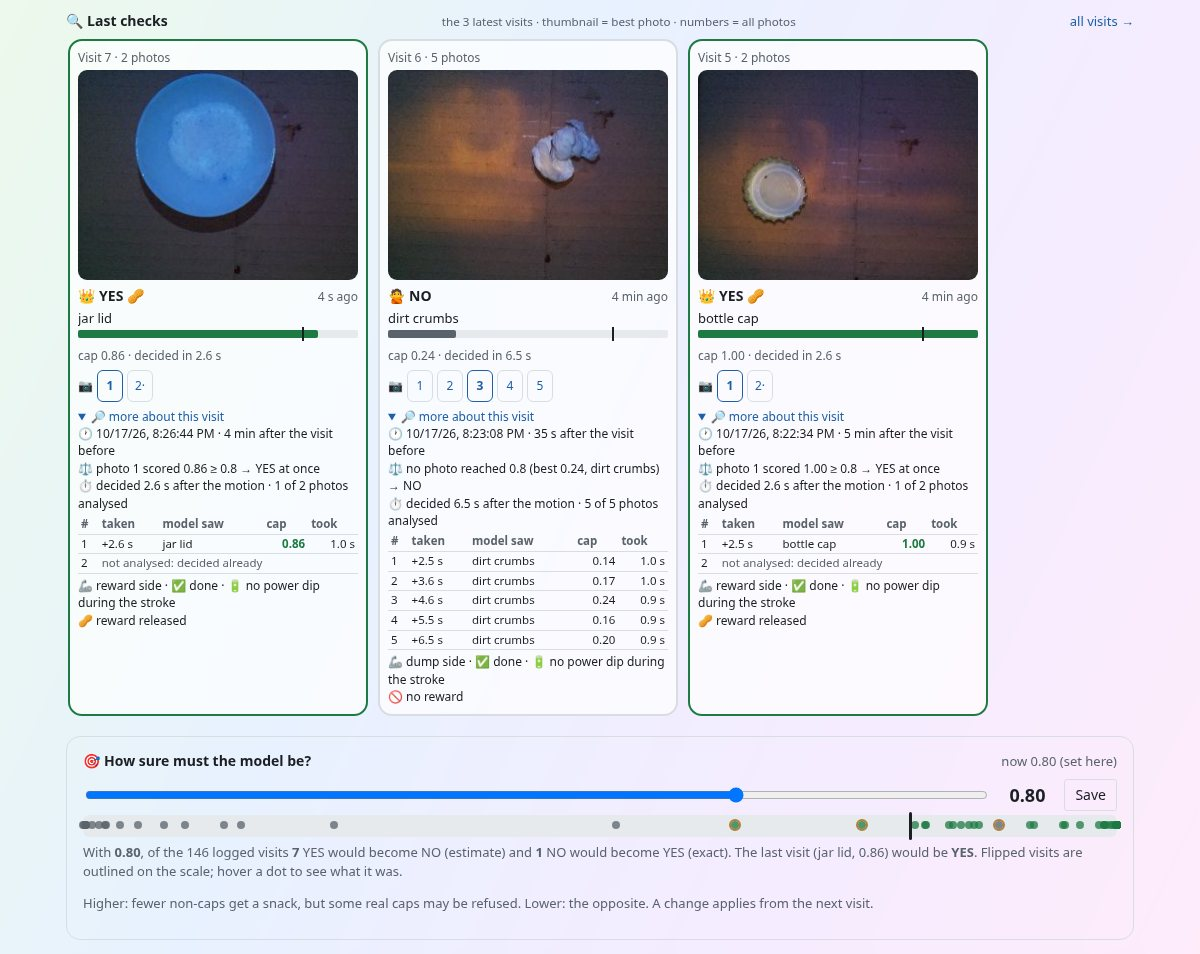
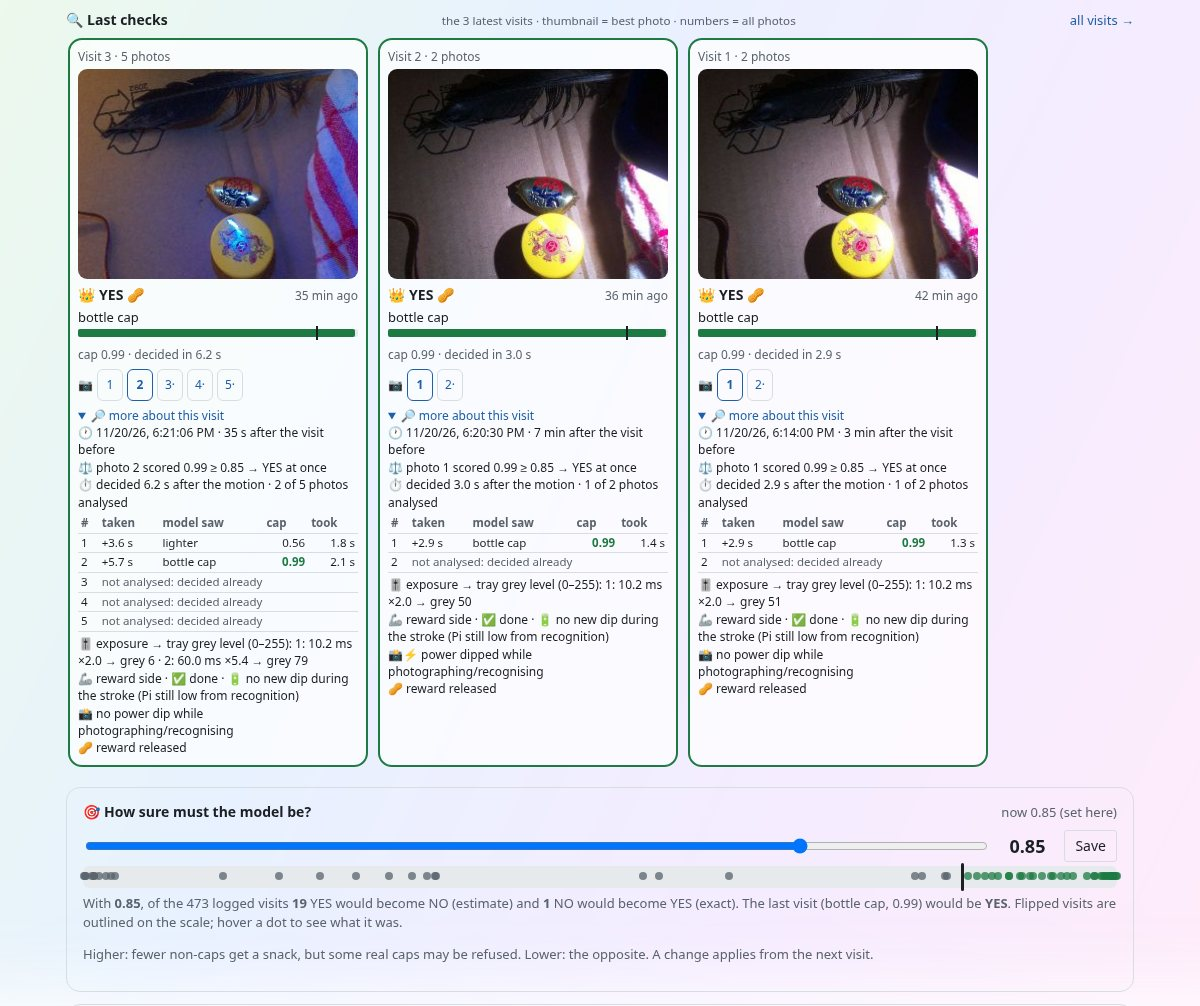
Fresh dashboard screenshots; the fresh installation run documented
New screenshots of the current dashboard (Crow mode, last checks with
the exposure of each photo, box controls with a live photo, the health
card, Nerd mode, phone). The README shows the dashboard of 17 October
against today, and a real visit where the exposure was corrected in one
step. DEPLOY records the installation from scratch on the bench Pi
(self-test 6/6, same settings) and the lesson about the sudo prompt.
The live photo on the page is limited to 560 px.

diff --git a/monitor/index.html b/monitor/index.html
@@ -25,7 +25,7 @@
   .food-line { font-weight: 600; } #foodBar { width: 160px; height: 10px; } #foodBar i { display: block; height: 100%; background: var(--ok); border-radius: 2px; }
   #foodBar[hidden] { display: none; }
   #foodBar.low i { background: var(--warn); } #foodBar.empty i { background: var(--bad); }
-  #snapBox img { max-width: 100%; border-radius: 10px; border: 1px solid var(--line); display: block; margin-bottom: 4px; }
+  #snapBox img { width: min(100%, 560px); border-radius: 10px; border: 1px solid var(--line); display: block; margin-bottom: 4px; }
   .strict-head { display: flex; justify-content: space-between; align-items: baseline; gap: 8px; flex-wrap: wrap; }
   .strict-row { display: flex; align-items: center; gap: 10px; margin: 8px 0 4px; }
   .strict-row input { flex: 1; min-width: 120px; } .strict-row output { font-weight: 700; font-size: 18px; min-width: 3em; text-align: center; }

diff --git a/README.md b/README.md
@@ -10,9 +10,9 @@ A crow drops an object into a small intake. A camera looks at it, an on-device v
 
 > **Status (October 2026): bench prototype.** The detection loop, recognition, servo strokes, installer and self-test run on the Pi. Recognition of caps and lids was tuned on a grey tray (threshold 0.6, adjustable from the dashboard) and checked on 141 bench visits; the camera adapts its exposure to daylight; a monitoring dashboard runs on the local network and, optionally, from the internet. The mechanical housing, the food dispenser and outdoor trials are the next steps ([ROADMAP](docs/ROADMAP.md)).
 
-![The monitoring dashboard in Crow mode: what the box is doing, today's caps and snacks, the last guest, the three latest checks with photos, the recognition threshold and the box's health](docs/images/dashboard-crow.jpg)
+![The monitoring dashboard in Crow mode: what the box is doing, today's caps and snacks, the last guest, the three latest checks with photos and the recognition threshold](docs/images/dashboard-crow.jpg)
 
-*The monitoring dashboard on the bench box ([MONITOR](docs/MONITOR.md)): live state, today's figures, the last three checks with their photos, the recognition threshold, and the box's health in plain words.*
+*The monitoring dashboard on the bench box ([MONITOR](docs/MONITOR.md)): live state, today's figures, the last three checks with their photos and the recognition threshold.*
 
 ---
 
@@ -123,6 +123,10 @@ On a sunny morning the exposure metered once in the dark stayed fixed: the tray 
 
 ![Tray brightness per visit before the fix](docs/images/chart-brightness.png)
 
+**Caught in a real visit:** the dashboard shows each photo's exposure and the tray's grey level. In the first visit after the lamp test, photo 1 was taken with the 10.2 ms left over from the lamp and came out almost black (grey level 6); photo 2 was taken with 60 ms and gain 5.4 and came out right (grey 79), and the YES was decided on it.
+
+![Last checks with the details of each visit open: the exposure and grey level of each photo](docs/images/dashboard-checks.jpg)
+
 ### 4. Recognition today
 
 ![Accepted caps, rejected objects, and the known mistakes](docs/images/recognition-examples.jpg)
@@ -138,6 +142,14 @@ The servo on the Pi's 5 V pin was blamed for the undervoltage warnings. Lining t
 *Then (17 Oct):* status, figures, three checks with photos. *Now:* the same plus the recognition threshold, box controls (pause, food counter, live photo), restart and reboot from anywhere behind the password, exposure and power diagnosis per visit; see the screenshots in [MONITOR](docs/MONITOR.md).
 
 ![The dashboard on 17 October](docs/images/dashboard-crow-17-oct.jpg)
+
+*Now (20 Nov):* the box controls (pause, food counter, live photo with the tray area outlined and a sharpness number for focusing), the health in plain words, and the phone view:
+
+![Box controls with a live photo](docs/images/dashboard-controls.jpg)
+
+![The health card: short power dips are shown as notes](docs/images/dashboard-health.jpg)
+
+<img src="docs/images/dashboard-phone.jpg" alt="The dashboard on a phone" width="300">
 
 ## Hardware
 

diff --git a/docs/MONITOR.md b/docs/MONITOR.md
@@ -142,8 +142,16 @@ The whole interface is available from the internet (Tailscale Funnel) behind the
 
 ## 🛠 Box controls
 
+![Box controls: pause, food counter and a live photo with the tray area outlined](images/dashboard-controls.jpg)
+
 A card under the threshold (both modes):
 
 - **⏸ Pause / ▶ Resume.** While paused, motion is ignored: a hand at the tray (cleaning, refilling) starts no visit, no light and no stroke; the servo keeps holding the tray. The status light blinks yellow for 50 ms every 10 s, the arm indicator shows *⏸ Paused*. Stored in `config/local.pause.json` (survives a restart); the detector checks it with one `stat()` per loop.
 - **🍽 Food counter.** Set the dispenser's capacity in portions once (✏ Capacity) and press 🍽 Refilled after each refill: the card shows how many portions are left, counted from the reward strokes in the visit log since then (strokes, not food measured). At 15 % left a note appears, at zero a warning. Stored in `config/local.food.json`; the counting is done in the browser, so it costs nothing on the Pi.
 - **📷 Live photo.** The detector switches the light on for about a second, takes one photo with the current exposure (which also corrects it), and the page shows it (820 px, about 60 KB) with the tray area outlined in green and the numbers that matter for aiming and focusing: the tray's grey level (aim for 45–140), the share of white pixels, the **sharpness** (variance of the Laplacian over the tray area: compare the values while turning the lens, higher is sharper) and the exposure. The server only writes a request file in `/dev/shm`; the detector handles it between visits (a visit in progress delays it by up to about 10 s), so the camera and the lights have a single owner. On demand only: no energy between requests.
+
+## The health card
+
+![Short power dips are notes, not faults](images/dashboard-health.jpg)
+
+*Crow mode's health card on the bench box on 2026-11-20: the box works, and the three power notes (low at this moment, dips while photographing, dips on servo moves) are shown in grey and green, not as faults.*

diff --git a/docs/DEPLOY.md b/docs/DEPLOY.md
@@ -61,7 +61,9 @@ Production settings live in `deploy/crown-crows-detect.service`: `--accept 0.6 -
 | Camera focus, aiming, light | physical | adjusted by hand |
 | Access from the internet | Tailscale and Funnel, see [MONITOR](MONITOR.md#access-from-the-internet-password-tailscale-funnel) | set up |
 
-**Not run from scratch on the Pi yet:** the complete `bash deploy/setup_pi.sh <user>@<pi> --fresh` after the changes of 2026-11-20 (the October run passed 6/6). It needs the Pi's sudo password and loads the Pi for several minutes, so it waits for a stable supply (the supply was low at rest when this was checked). `install.sh` now also checks that the dashboard files and the polkit rule are present before it starts.
+**Run from scratch on the bench Pi (2026-11-20):** `bash deploy/setup_pi.sh <user>@<pi> --fresh` cleared `~/crown-crows` on the Pi (kept `captures`, `config`, `logs`), copied the project and the model, checked the packages and the Python environment (onnxruntime 1.23.2, OpenCV 4.11.0), PWM, groups, the persistent log and the service; the self-test then passed **6/6 with the same scores as before** (1.000, 0.999, 1.000, 0.001, 0.003, 0.000), and the detector came up ready after about two minutes with the same settings as before: 3 recognition threads and, from `config/`, the threshold 0.85, the servo calibration, the tray area and the dashboard token and password. The one step that needs the Pi's sudo password, installing the polkit rule for Power off and Reboot, was skipped in that run (nobody could type the password); it is installed by the one command in [MONITOR](MONITOR.md#reboot-and-restart-detector-buttons-2026-11-20), or by running `install.sh` again from a real terminal.
+
+**Lesson:** run `setup_pi.sh` and `install.sh` from a real terminal that you can type into. When the permission rule is missing they ask once for the Pi's sudo password, and in a shell nobody can answer they wait indefinitely (the Pi's service is stopped meanwhile). `install.sh` also checks that the dashboard files and the polkit rule are present before it starts.
 
 ## Cloning an SD card (identical units)
 

diff --git a/docs/HISTORY.md b/docs/HISTORY.md
@@ -98,3 +98,4 @@ On the Pi, the same 100 past visit photos with 4, 3, 2 and 1 recognition threads
 - **Dashboard:** 🔁 Restart detector and 🔄 Reboot (home network only); the power-bank charge level cannot be read from the Pi, options in [POWER](POWER.md#power-bank-charge-level-in-the-dashboard-2026-11-20).
 - **Whole interface from the internet (owner's decision):** threshold, Restart detector and Reboot work behind the password; Power off stays home-only (shown, disabled). New: ⏸ pause, 🍽 food counter, 📷 live photo with a sharpness number ([MONITOR](MONITOR.md#box-controls)).
 - **Verification of a fresh installation and energy cost (owner's request):** a fresh clone is byte-identical with the code on the bench Pi, the units match, the recognition of the six self-test photos from the clone gives the Pi's scores; the additions of the day cost under 0.05 % of the daily energy ([DEPLOY](DEPLOY.md#does-a-fresh-installation-behave-like-the-bench-unit-checked-2026-11-20), [POWER](POWER.md#what-the-additions-of-2026-11-20-cost)). Found on the way: the supply was low at rest (alarm on for minutes, CPU throttled) after the box was re-cabled; two resets that evening were the owner handling the power cables. A colour-cast correction was tested and dropped ([RECOGNITION](RECOGNITION.md#does-the-colour-cast-matter-2026-11-20)).
+- **Installation from scratch verified on the bench Pi** (owner's request): self-test 6/6, same scores, same settings afterwards; the permission step waited for a password nobody could type, which stopped the detector for about 20 minutes until the remaining steps were run without it ([DEPLOY](DEPLOY.md#does-a-fresh-installation-behave-like-the-bench-unit-checked-2026-11-20)). README: a new before-and-after section with pictures, and fresh screenshots of the dashboard.

diff --git a/docs/ROADMAP.md b/docs/ROADMAP.md
@@ -16,7 +16,8 @@
 
 - [ ] **Power headroom** (a note, not a fault: no failure seen so far). The servo stays on the Pi's 5 V pin (owner's decision), without a capacitor (tested, no clear benefit, removed); short dips remain on some tilts. To check when convenient: the power supply's rating and cable, and whether the tray meets resistance on the reward side ([POWER](POWER.md#measurements-2026-10-17)).
 - [ ] **Energy for battery operation:** measure with a USB power meter first, then night shutdown, Wi-Fi/Tailscale off in the field, HDMI/Bluetooth off, possibly a Pi Zero 2 W ([POWER](POWER.md#measured-idle-load-2026-10-17)). Not needed while the box runs from the mains.
-- [ ] **Run `setup_pi.sh --fresh` on the bench Pi** once the supply is stable (needs the sudo password; the October run passed 6/6) and update the polkit rule so that 🔄 Reboot appears (`deploy/install.sh` does both).
+- [x] **`setup_pi.sh --fresh` run on the bench Pi** (2026-11-20): self-test 6/6, same behaviour as before ([DEPLOY](DEPLOY.md#does-a-fresh-installation-behave-like-the-bench-unit-checked-2026-11-20)).
+- [ ] **Install the polkit rule** so that 🔄 Reboot appears: one command with the Pi's sudo password ([MONITOR](MONITOR.md#reboot-and-restart-detector-buttons-2026-11-20)).
 - [ ] **Supply low at rest** (2026-11-20, after re-cabling): check the cable, the port and other loads on the power bank.
 - [ ] **Check pause with a real hand at the tray** (2026-11-20): while paused no visit; after Resume a visit again.
 - [ ] **Check the adaptive exposure in real sun** (2026-11-20; under a strong lamp it worked: grey 254 → 71 after one correction): visits around midday; the dashboard shows each photo's exposure and grey level; the tray should come out near 90 instead of 220–240.
